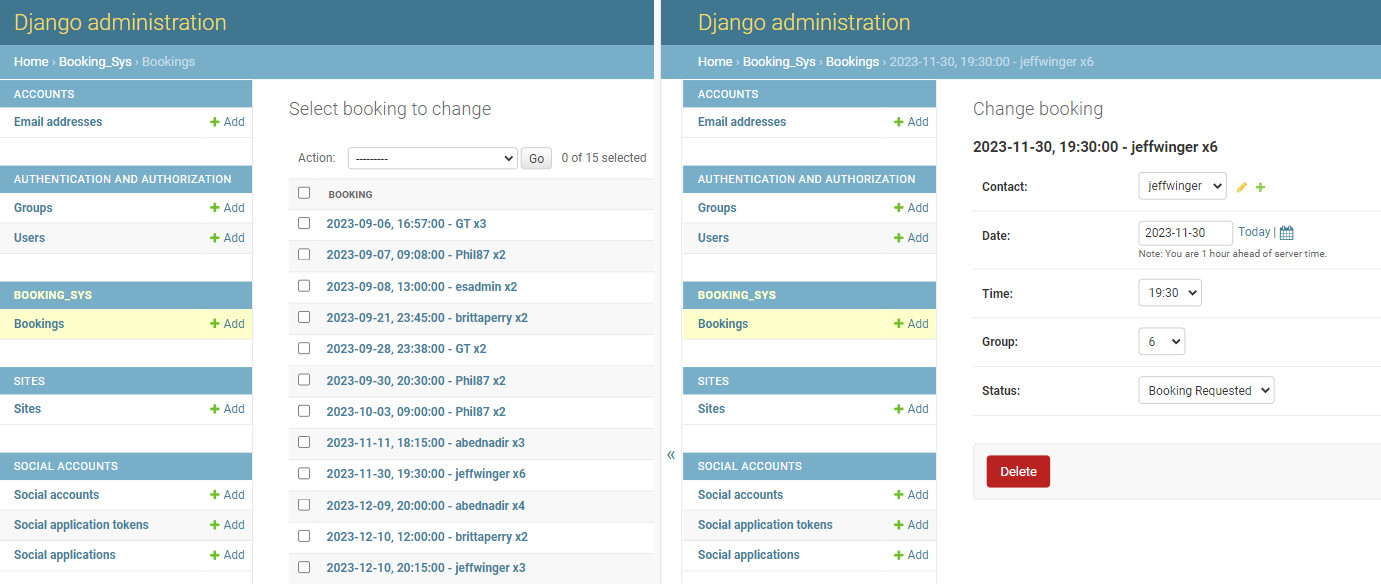
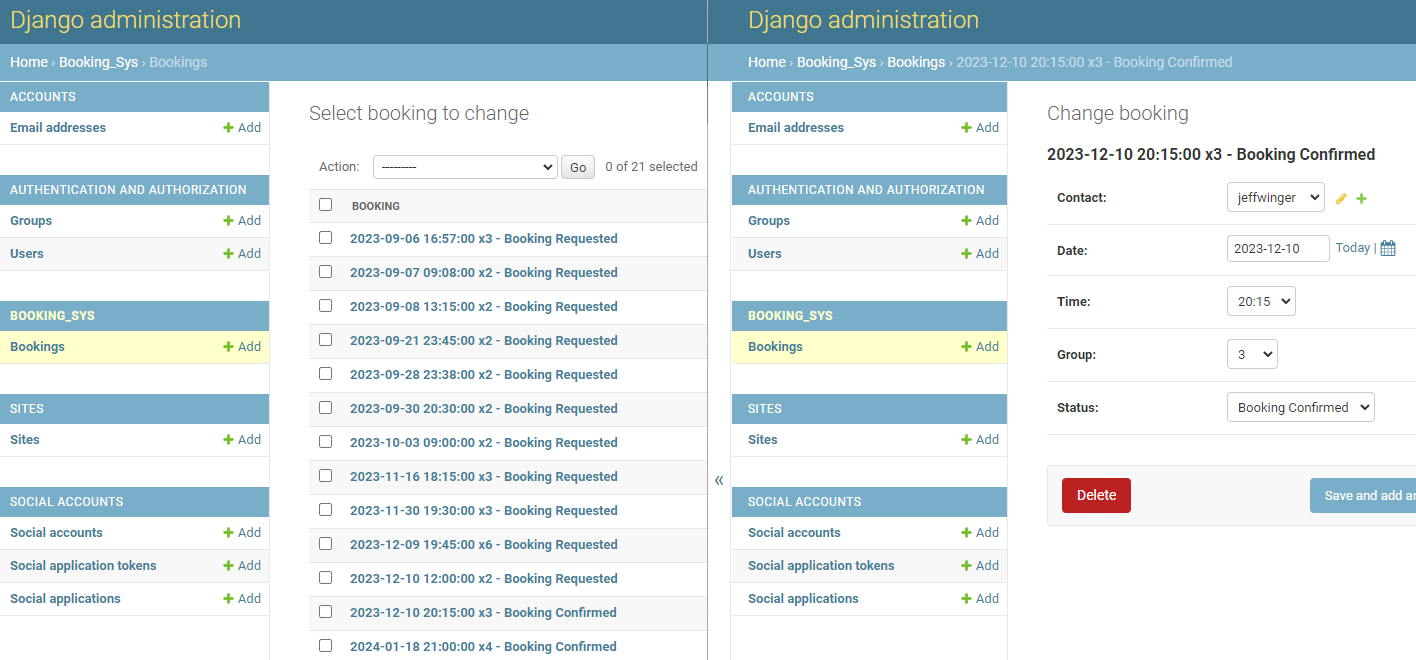
Docs: update admin view in README.md

diff --git a/README.md b/README.md
@@ -330,7 +330,7 @@ Each of the following implementations was added in response to the acceptance cr
 ![Overview](static/images/readme/features-admin-overview.png)
 
 - A link named 'Bookings' provided in the lefthand menu allows the admin to view all entries on the database
-- Booking names formatted as ```<date>, <time>, x<group size> - <status>``` and displayed in date order for ease of reading/understanding
+- Booking names formatted as ```<date> <time> x<group size> - <status>``` and displayed in date order for ease of reading/understanding
 - Clicking a booking name will take the admin to its detailed view where the status can be updated and saved
 - These changes are fed back to the used via their booking list on the regular site
 
